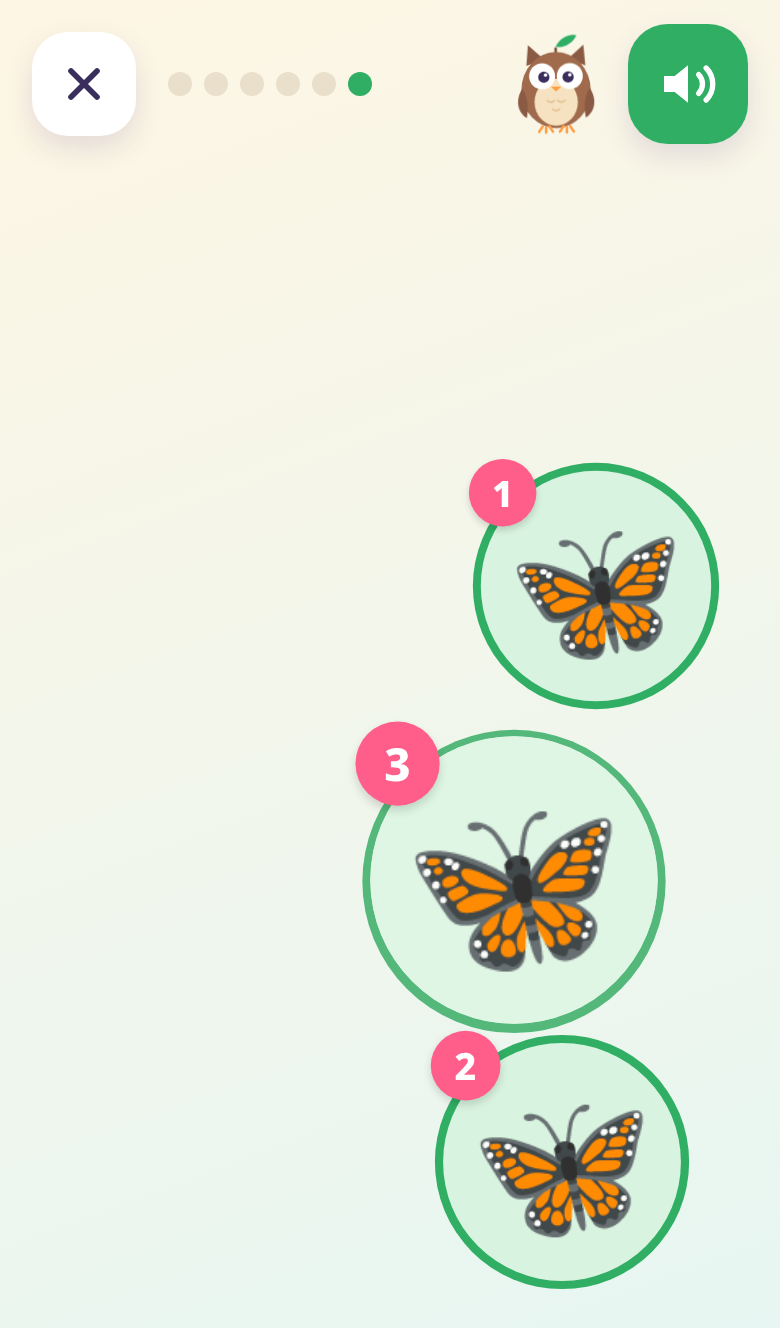
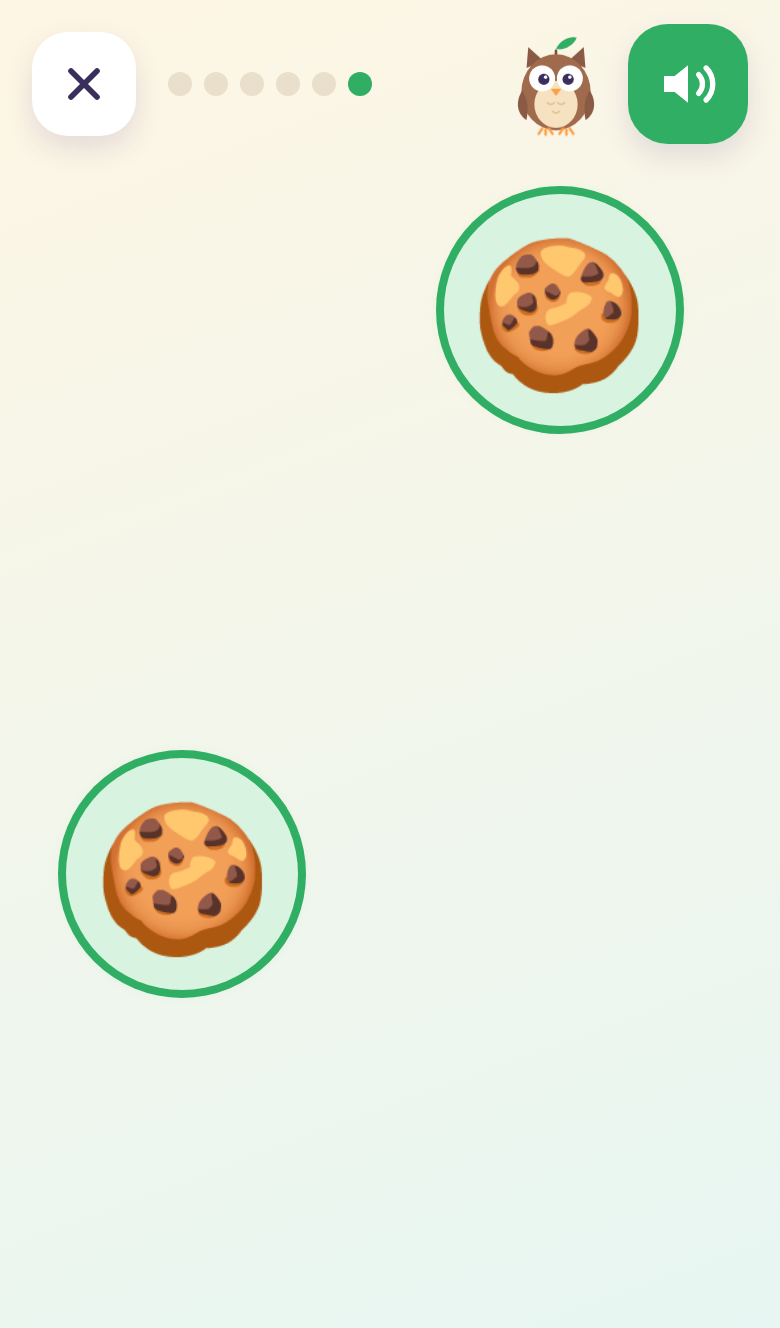
Remove number badges from counted items
Counted items are marked only by a green ring, so nothing on screen hints
at an order; items can be tapped in any order and the voice counts on.
The test now taps in reverse order and checks no badges appear.
Cache bumped to one-v2.

Claude-Session: https://claude.ai/code/session_015sa3VBMkkcjKQN3scQZ9Cu

diff --git a/js/app.js b/js/app.js
@@ -302,7 +302,7 @@
       b.className = "item";
       b.dataset.i = i;
       b.style.cssText = `left:${x}px;top:${y}px;width:${size}px;height:${size}px;font-size:${size * 0.62}px`;
-      b.innerHTML = `<span class="emo">${it.emoji}</span><span class="badge"></span>`;
+      b.innerHTML = `<span class="emo">${it.emoji}</span>`;
       field.appendChild(b);
       return b;
     });
@@ -314,22 +314,18 @@
     el.classList.add("bounce");
   }
 
-  function mark(el, n) {
+  function mark(el) {
     el.classList.add("counted");
-    el.querySelector(".badge").textContent = n;
     bounce(el);
   }
 
   // The voice counts these elements one by one, lighting each up.
   async function countTogether(v, els) {
-    els.forEach((el) => {
-      el.classList.remove("counted", "lit");
-      el.querySelector(".badge").textContent = "";
-    });
+    els.forEach((el) => el.classList.remove("counted", "lit"));
     for (let i = 0; i < els.length; i++) {
       if (v.dead) return;
       els[i].classList.add("lit");
-      mark(els[i], i + 1);
+      mark(els[i]);
       A.sfx.pop();
       await talk(seg.num(i + 1));
       await wait(150);
@@ -352,7 +348,7 @@
           return;
         }
         count++;
-        mark(b, count);
+        mark(b);
         A.sfx.pop();
         if (count < n) talk(seg.num(count));
         else {
@@ -468,7 +464,7 @@
 
     function renderChips() {
       $("#chips").innerHTML = inBasket
-        .map((i) => `<button class="chip" data-i="${i}"><span class="emo">${it.emoji}</span><span class="badge"></span></button>`)
+        .map((i) => `<button class="chip" data-i="${i}"><span class="emo">${it.emoji}</span></button>`)
         .join("");
       $("#chips").classList.toggle("many", inBasket.length > 6);
       $$(".chip").forEach((c) =>

diff --git a/css/app.css b/css/app.css
@@ -246,22 +246,6 @@ svg { display: block; }
 .item.done { background: var(--leaf-soft); box-shadow: 0 0 0 4px var(--leaf), 0 0 18px rgba(47, 174, 100, 0.45); }
 .item.lit { background: #fff3c4; box-shadow: 0 0 0 4px var(--amber); }
 .item.gone { opacity: 0; transform: scale(0.4); pointer-events: none; }
-.badge {
-  position: absolute;
-  top: -6px;
-  left: -6px;
-  min-width: 34px;
-  height: 34px;
-  padding: 0 6px;
-  border-radius: 17px;
-  background: var(--pink);
-  color: #fff;
-  font: 800 1.15rem/34px var(--font);
-  text-align: center;
-  box-shadow: 0 2px 4px rgba(0, 0, 0, 0.15);
-  display: none;
-}
-.counted > .badge { display: block; }
 .bounce { animation: bounce 0.4s cubic-bezier(0.3, 1.6, 0.5, 1); }
 @keyframes bounce { 40% { transform: scale(1.22); } }
 
@@ -320,7 +304,6 @@ svg { display: block; }
   place-items: center;
   box-shadow: 0 2px 0 var(--line);
 }
-.chip .badge { min-width: 26px; height: 26px; line-height: 26px; font-size: 0.9rem; top: -5px; left: -5px; }
 .chips.many { gap: 4px; }
 .chips.many .chip { width: 40px; height: 40px; font-size: 24px; }
 .chip.lit { box-shadow: 0 0 0 3px var(--amber); background: #fff3c4; }

diff --git a/sw.js b/sw.js
@@ -1,6 +1,6 @@
 /* Offline support: everything the app needs is cached on install.
  * Bump CACHE on every release, or installed phones keep the old version. */
-const CACHE = "one-v1";
+const CACHE = "one-v2";
 const SHELL = [
   "./",
   "index.html",

diff --git a/README.md b/README.md
@@ -9,7 +9,7 @@
 
 כל משחק הוא 6 סבבים (3–5 דקות), ובסופו חגיגה ומדבקה לספר המדבקות.
 
-1. **נוגעים וסופרים** — על המסך מפוזרים כמה תפוחים, ברווזים, כוכבים… כל נגיעה: החפץ קופץ, מקבל מספר, והקול אומר את המספר הבא. נגיעה שנייה באותו חפץ: ״כְּבָר סָפַרְנוּ אוֹתוֹ״. בסוף הקול חוזר על הסכום עם שם העצם: ״יֵשׁ חֲמִשָּׁה תַּפּוּחִים!״.
+1. **נוגעים וסופרים** — על המסך מפוזרים כמה תפוחים, ברווזים, כוכבים… כל נגיעה: החפץ קופץ ומסומן, והקול אומר את המספר הבא. נגיעה שנייה באותו חפץ: ״כְּבָר סָפַרְנוּ אוֹתוֹ״. בסוף הקול חוזר על הסכום עם שם העצם: ״יֵשׁ חֲמִשָּׁה תַּפּוּחִים!״.
 2. **כמה יש?** — סופרים בנגיעות, ואז בוחרים את התשובה מתוך 3 כרטיסים גדולים (ספרה + נקודות).
 3. **תן לי…** — ״תֵּן לִי שָׁלוֹשׁ בָּנָנוֹת״: נוגעים בחפצים כדי להכניס אותם לסל (כל אחד נספר בקול), ולוחצים על ✓ הירוק. נגיעה בחפץ שבסל מוציאה אותו.
 
